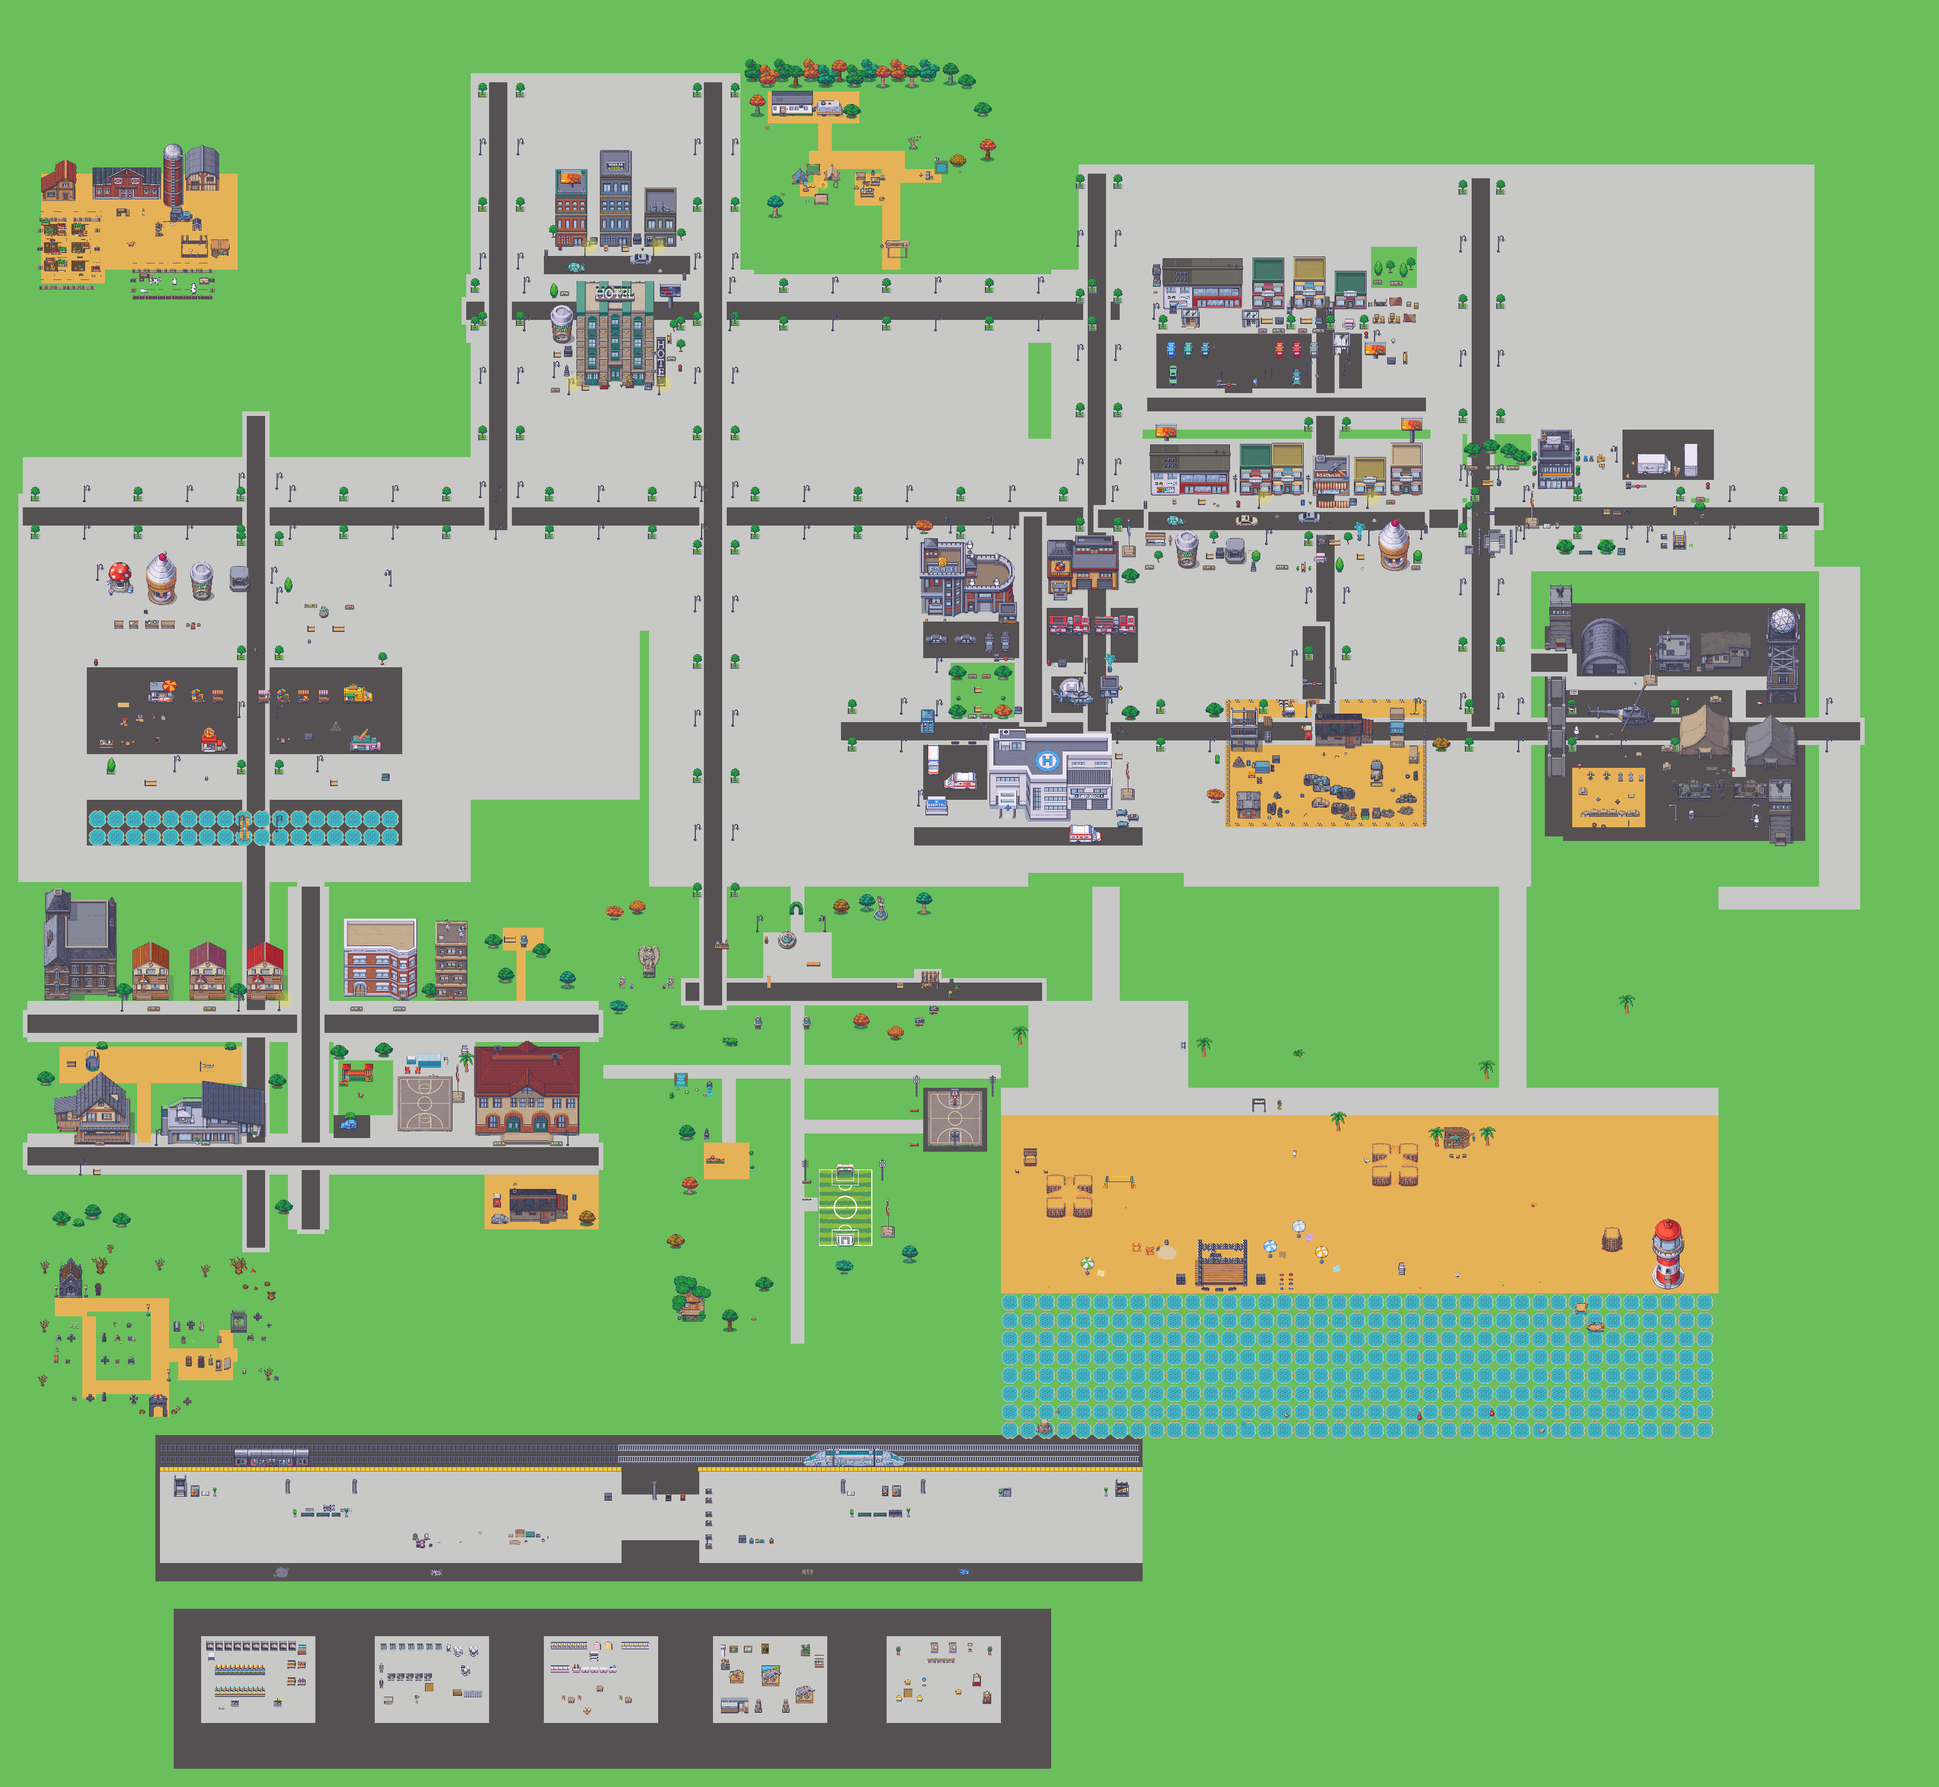
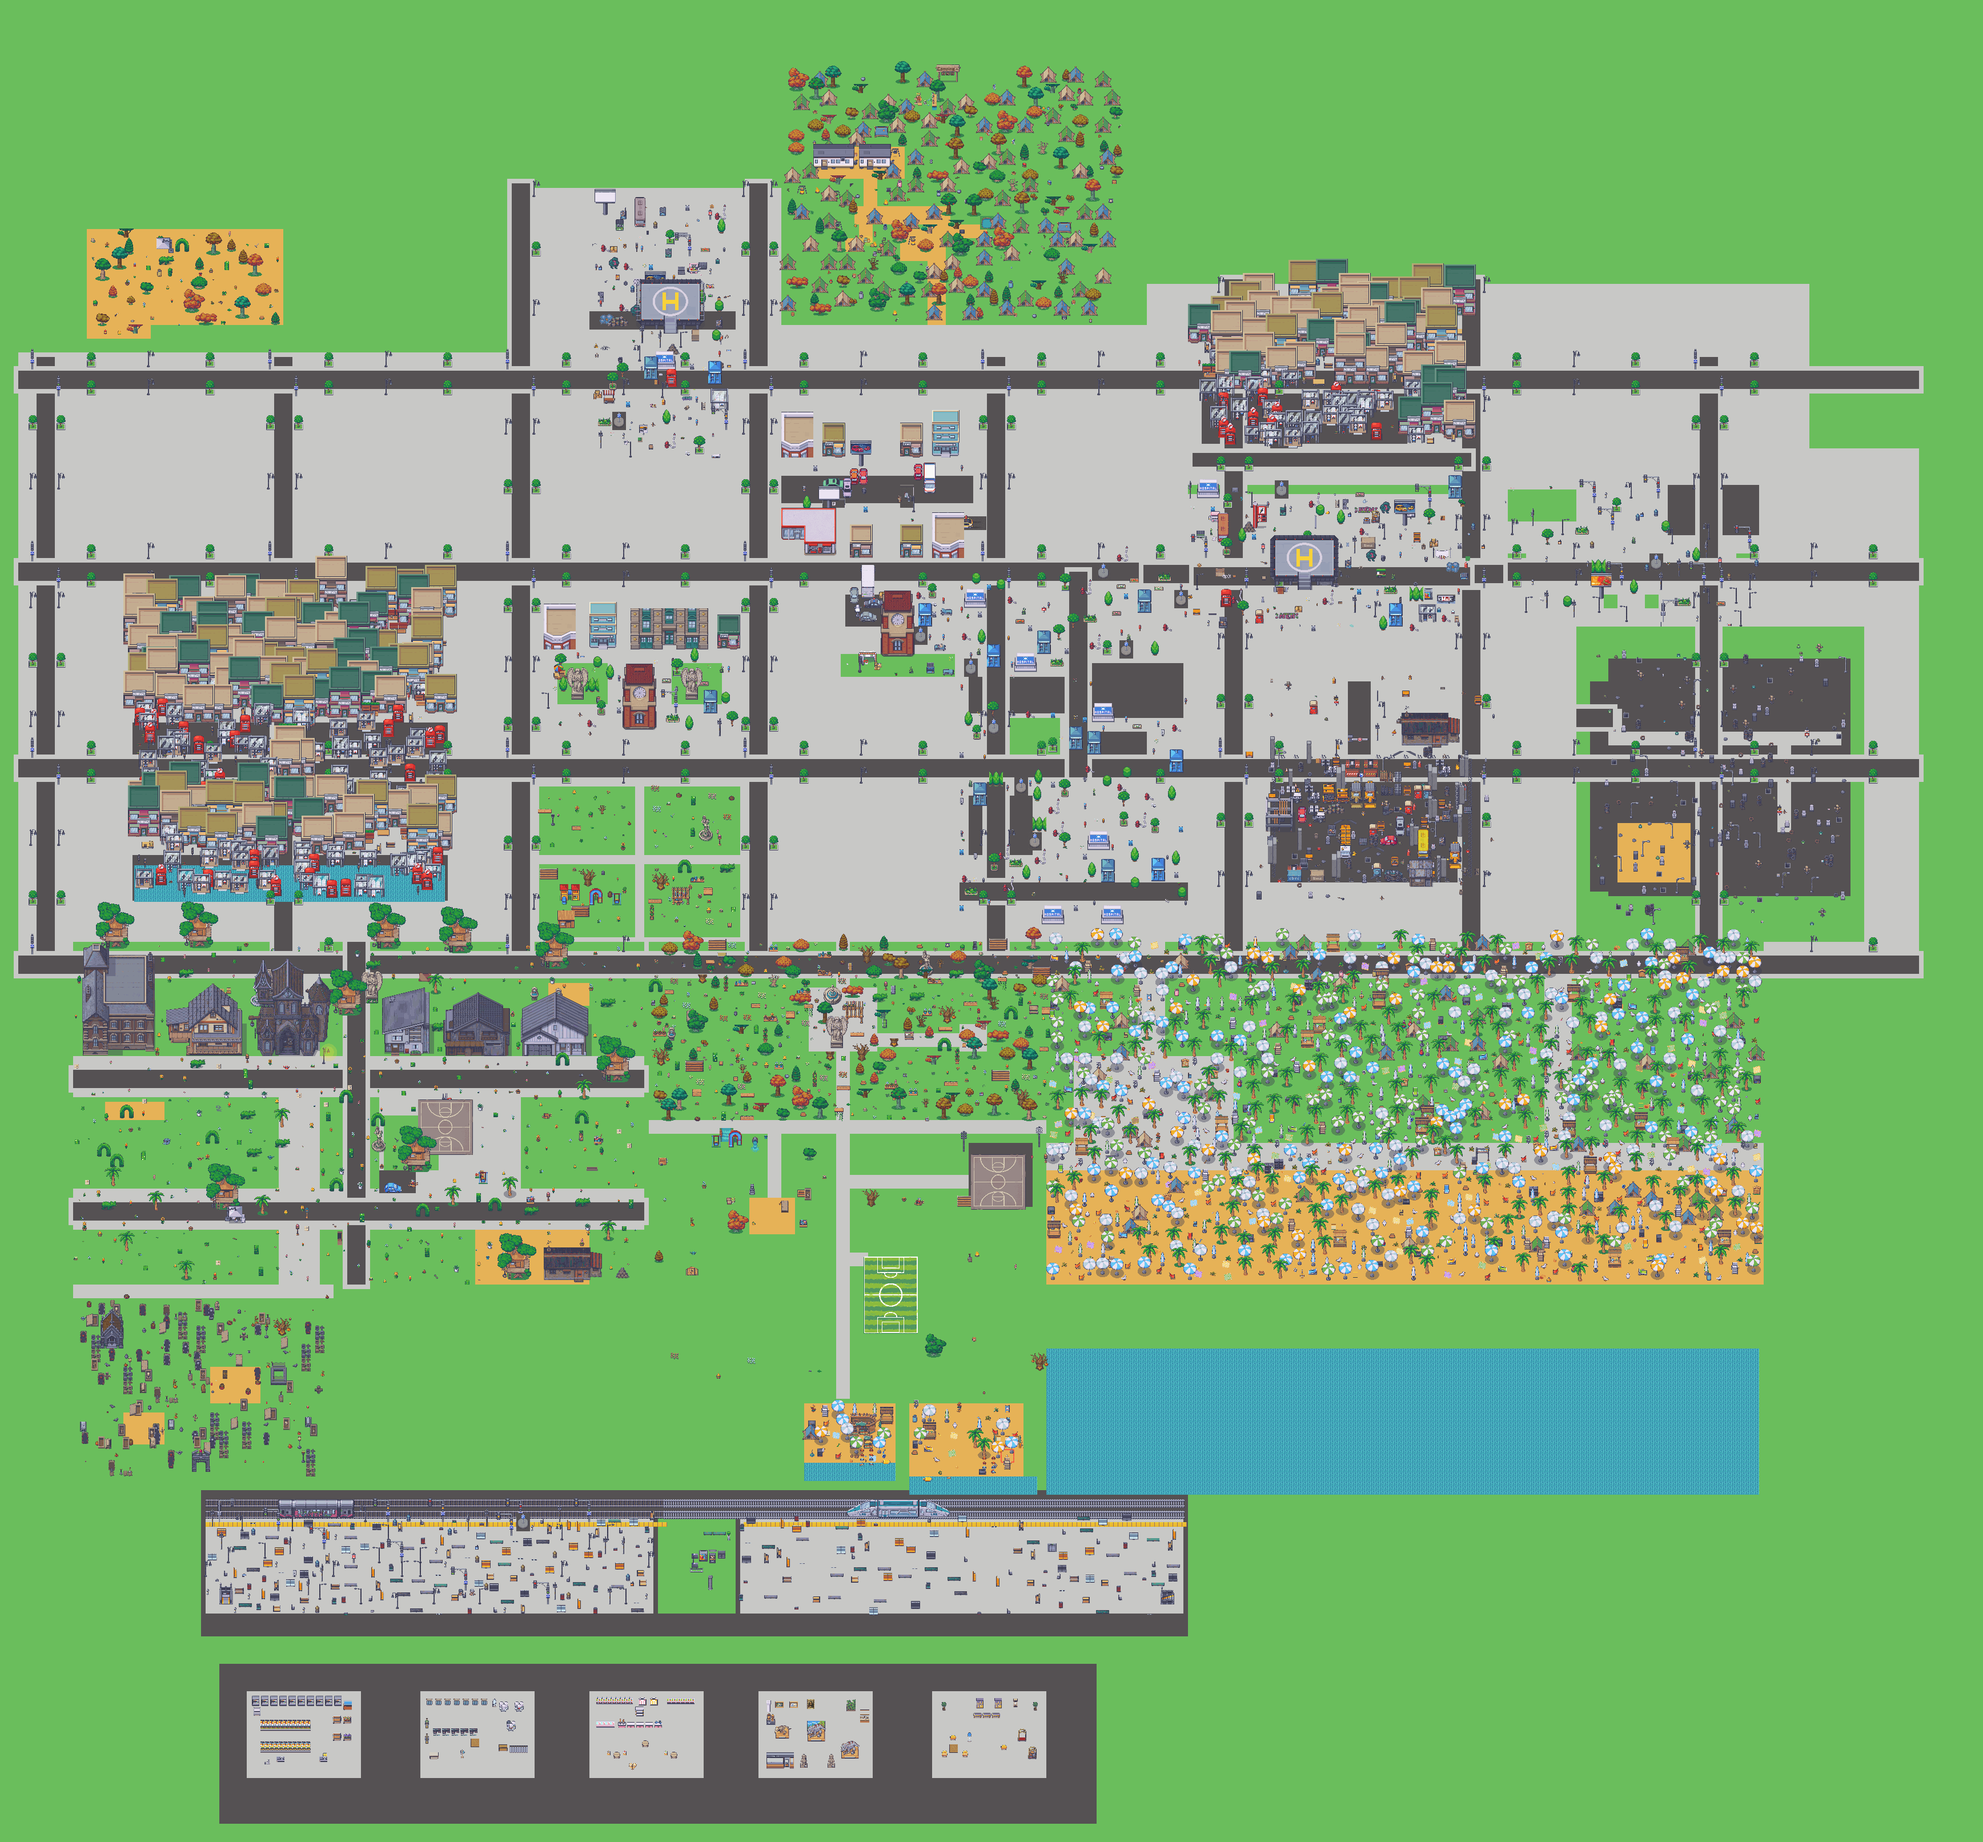
perf(city): run the exterior on WebGL; stop promote re-adding the showcase
WebGL for ?world=full only. preferCanvasRenderer() forced Canvas2D everywhere
because WebGL texture uploads during office create() were OOMing browsers
(Brave, low-RAM machines). That call was made for the office — one screen of
furniture — but ?world=full early-returns out of office create() entirely, so
it never performs that many-texture upload. It instead draws ~11.7k objects
from ONE packed atlas page, which is the case Canvas2D handles worst because
it cannot batch. Measured in city-viewer.html at identical camera positions
and identical visible-object counts:

    play zoom, 1110 visible    Canvas  9.78ms   WebGL 2.63ms   3.7x
    play zoom, 1332 visible    Canvas 10.92ms   WebGL 2.86ms   3.8x
    zoomed out, 2439 visible   Canvas 17.28ms   WebGL 3.29ms   5.3x

The gap widens with object count, so Canvas is worst exactly where the city is
densest, and ~11ms/frame leaves no headroom on weak hardware. Verified in the
real game: /office?demo=1&world=full reports WEBGL, /office?demo=1 still
reports CANVAS. ?canvas=1 forces 2D back if a device needs it.

city-viewer.html now defaults to WebGL to match, with ?canvas=1 to compare.

promote-city-plan.sh no longer re-adds d99. It used to strip the showcase from
the manifest, merge, rebuild d99, ADD IT BACK and merge again — so one promote
would have undone the showcase removal in the previous commit and put 683
exhibit stamps back in the played city. It now never touches the manifest (the
[…]

diff --git a/denizen/city-viewer.html b/denizen/city-viewer.html
@@ -17,6 +17,7 @@
     city-viewer.html?x=512&y=1568&free=1      detach camera from the player
     city-viewer.html?atlas=0                  bypass the packed atlas
     city-viewer.html?grid=1                   overlay a 64px grid + block labels
+    city-viewer.html?canvas=1                 force Canvas2D (compare vs WebGL)
 
   Drag to pan (free mode), wheel to zoom, WASD to walk. The HUD reports the
   cursor's world coordinate, so you can read a spot off the map and re-aim.
@@ -136,10 +137,12 @@ class ViewerScene extends Phaser.Scene {
 }
 
 const game = new Phaser.Game({
-  // The office forces CANVAS (WebGL uploads OOM'd some browsers); the city is a
-  // far bigger draw list, so the viewer honours ?webgl=1 the same way and
-  // otherwise matches the game's default so what you see is what players get.
-  type: q.get('webgl') === '1' ? Phaser.WEBGL : Phaser.CANVAS,
+  // Match what players get: office-scene.js preferCanvasRenderer() forces
+  // CANVAS for the office (WebGL uploads OOM'd some browsers) but returns
+  // WebGL for ?world=full, because the city draws ~11.7k objects from one
+  // atlas page and Canvas2D cannot batch — measured 3.7-5.3x slower.
+  // ?canvas=1 here forces 2D so the two can be compared side by side.
+  type: q.get('canvas') === '1' ? Phaser.CANVAS : Phaser.WEBGL,
   // Fixed 1280x720 — the exact viewport the game runs at, so a shot here frames
   // the same thing a player sees. Sizing from window.innerWidth would also read
   // 0 whenever the page boots in a hidden/unpainted pane, which silently gives

diff --git a/denizen/office-scene.js b/denizen/office-scene.js
@@ -3993,8 +3993,22 @@ function preferCanvasRenderer() {
     // WebGL texture uploads during office create() have been hanging/OOMing
     // browsers in the wild (Brave, low-RAM machines, and others we couldn't
     // pin down). Canvas2D is plenty for a 2D pixel-art office, so it's the
-    // default now — pass ?webgl=1 to opt back into WebGL.
+    // default — pass ?webgl=1 to opt back into WebGL, ?canvas=1 to force 2D.
     if (q.get('webgl') === '1') return false;
+    if (q.get('canvas') === '1') return true;
+    // ...but the CITY is a different workload, and the Canvas default was
+    // chosen for the office. ?world=full early-returns out of office create()
+    // entirely (see the `world === 'full'` branch below), so it never performs
+    // the many-texture upload that caused those OOMs — it draws ~11.7k objects
+    // from ONE packed atlas page, which is exactly the case Canvas2D handles
+    // worst because it cannot batch. Measured in city-viewer.html at the same
+    // camera positions and identical visible-object counts:
+    //     play zoom, 1110 visible   Canvas  9.78ms  WebGL 2.63ms   3.7x
+    //     play zoom, 1332 visible   Canvas 10.92ms  WebGL 2.86ms   3.8x
+    //     zoomed out, 2439 visible  Canvas 17.28ms  WebGL 3.29ms   5.3x
+    // The gap widens with object count, so Canvas is worst precisely where the
+    // city is densest. Canvas ~11ms/frame leaves no headroom on weak hardware.
+    if (q.get('world') === 'full') return false;
   } catch (_) {}
   return true;
 }
